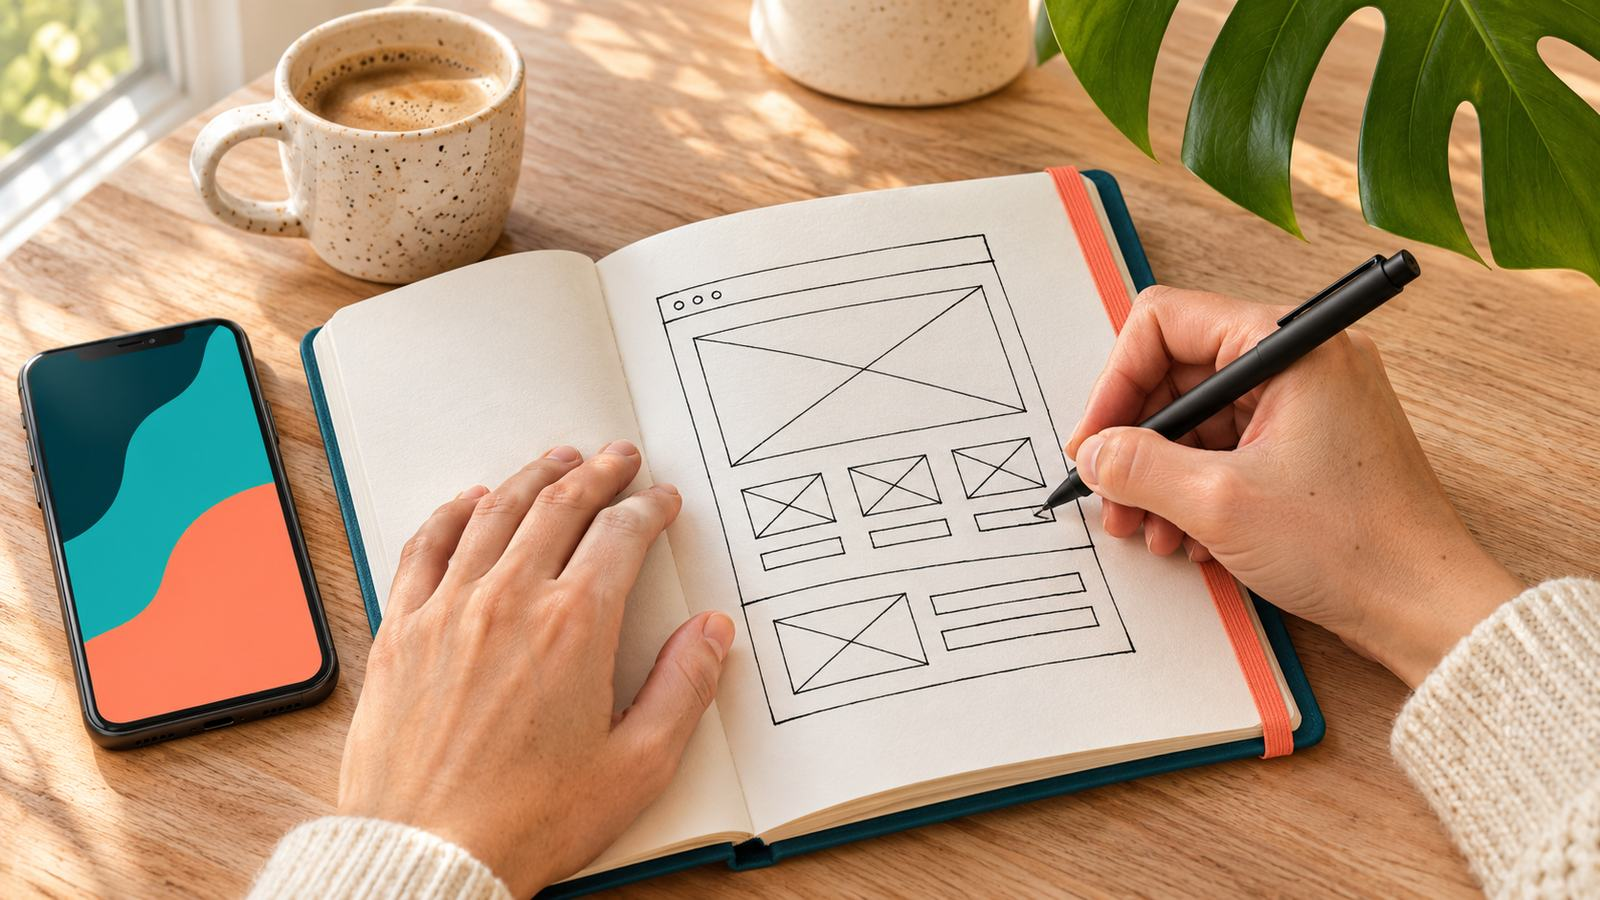
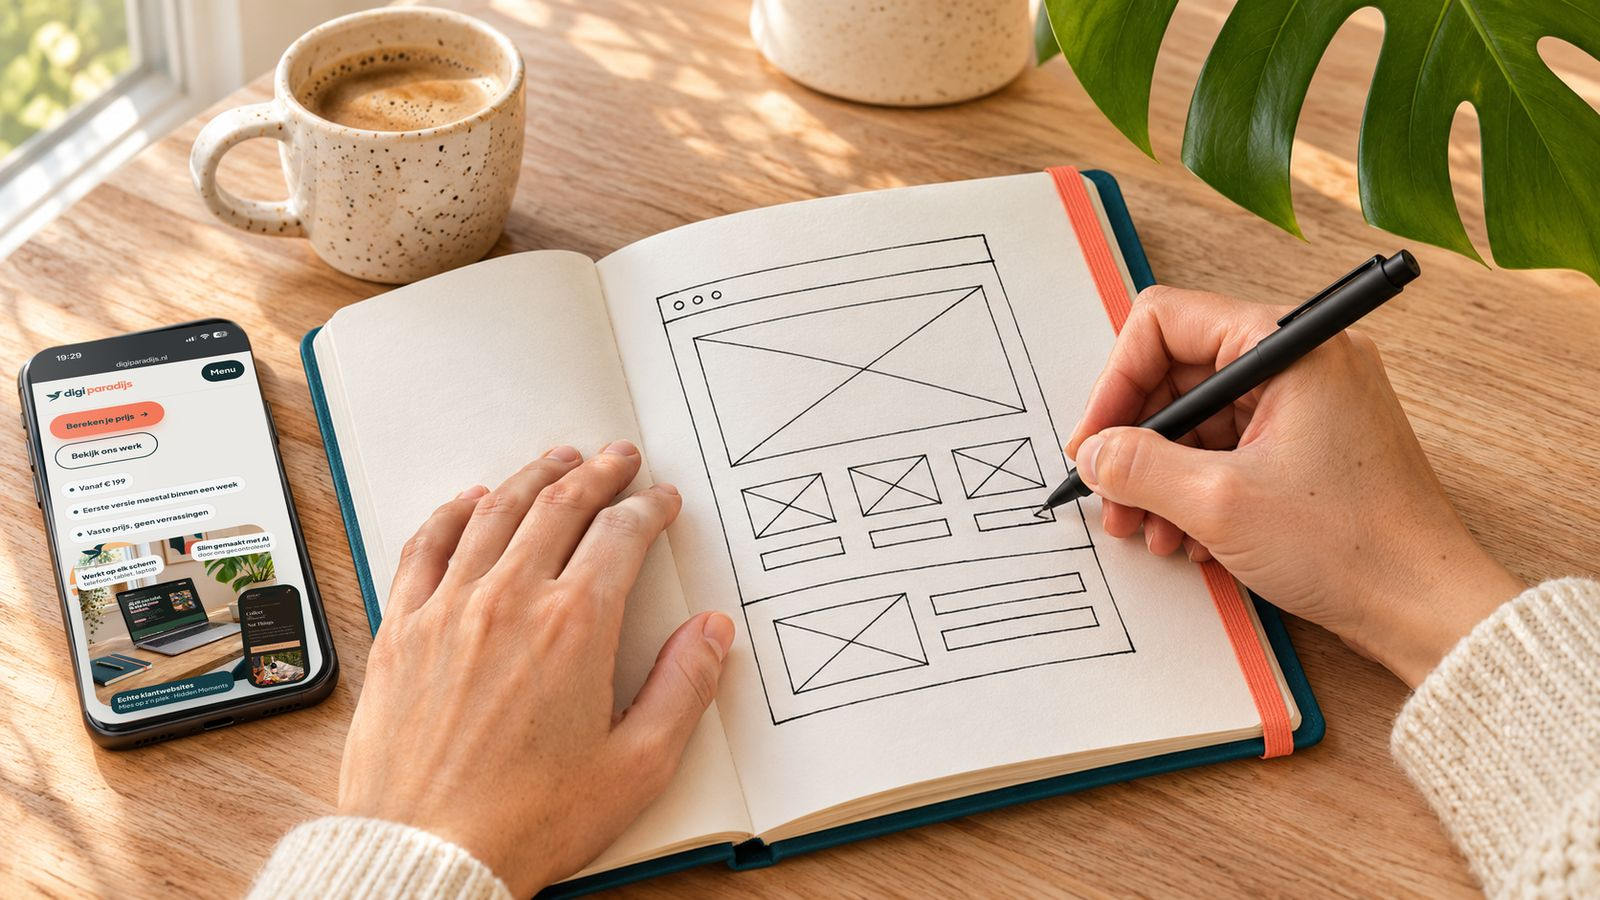
Echte schermafbeelding van de site in de telefoon op foto 2
Claude-Session: https://claude.ai/code/session_01DjA4K26nu5XQcd7w3w3ALD

Changed region(s): [[0.0, 0.3422, 0.2188, 0.8089]]

diff --git a/index.html b/index.html
@@ -568,7 +568,7 @@ footer{background:var(--jungle-2);color:#BCD5D8;padding-block:40px;font-size:.92
         <h2>Een professionele site, zonder bureauprijs</h2>
         <p class="lead">Bij een webbureau ben je vaak duizenden euro's kwijt. Wij werken slim met AI en zonder duur kantoor. Zo betaal je alleen voor wat je echt nodig hebt.</p>
       </div>
-      <figure class="wphoto"><picture><source srcset="img/schets.webp" type="image/webp"><img src="img/schets.jpg" alt="Handen schetsen een website-indeling in een notitieboek" width="1600" height="900" loading="lazy"></picture></figure>
+      <figure class="wphoto"><picture><source srcset="img/schets.webp" type="image/webp"><img src="img/schets.jpg" alt="Handen schetsen een website-indeling in een notitieboek, met de website van Digi Paradijs op een telefoon ernaast" width="1600" height="900" loading="lazy"></picture></figure>
       <div class="fact-grid">
         <div class="fact"><b>€ 199</b><h3>Vaste prijs</h3><p>Je weet vooraf wat je betaalt. Voor maatwerk krijg je eerst een offerte. Geen uurtje-factuurtje achteraf.</p></div>
         <div class="fact"><b>± 1 week</b><h3>Snel een eerste versie</h3><p>Meestal zie je binnen een week de eerste versie, zodra we je teksten en foto's hebben.</p></div>
